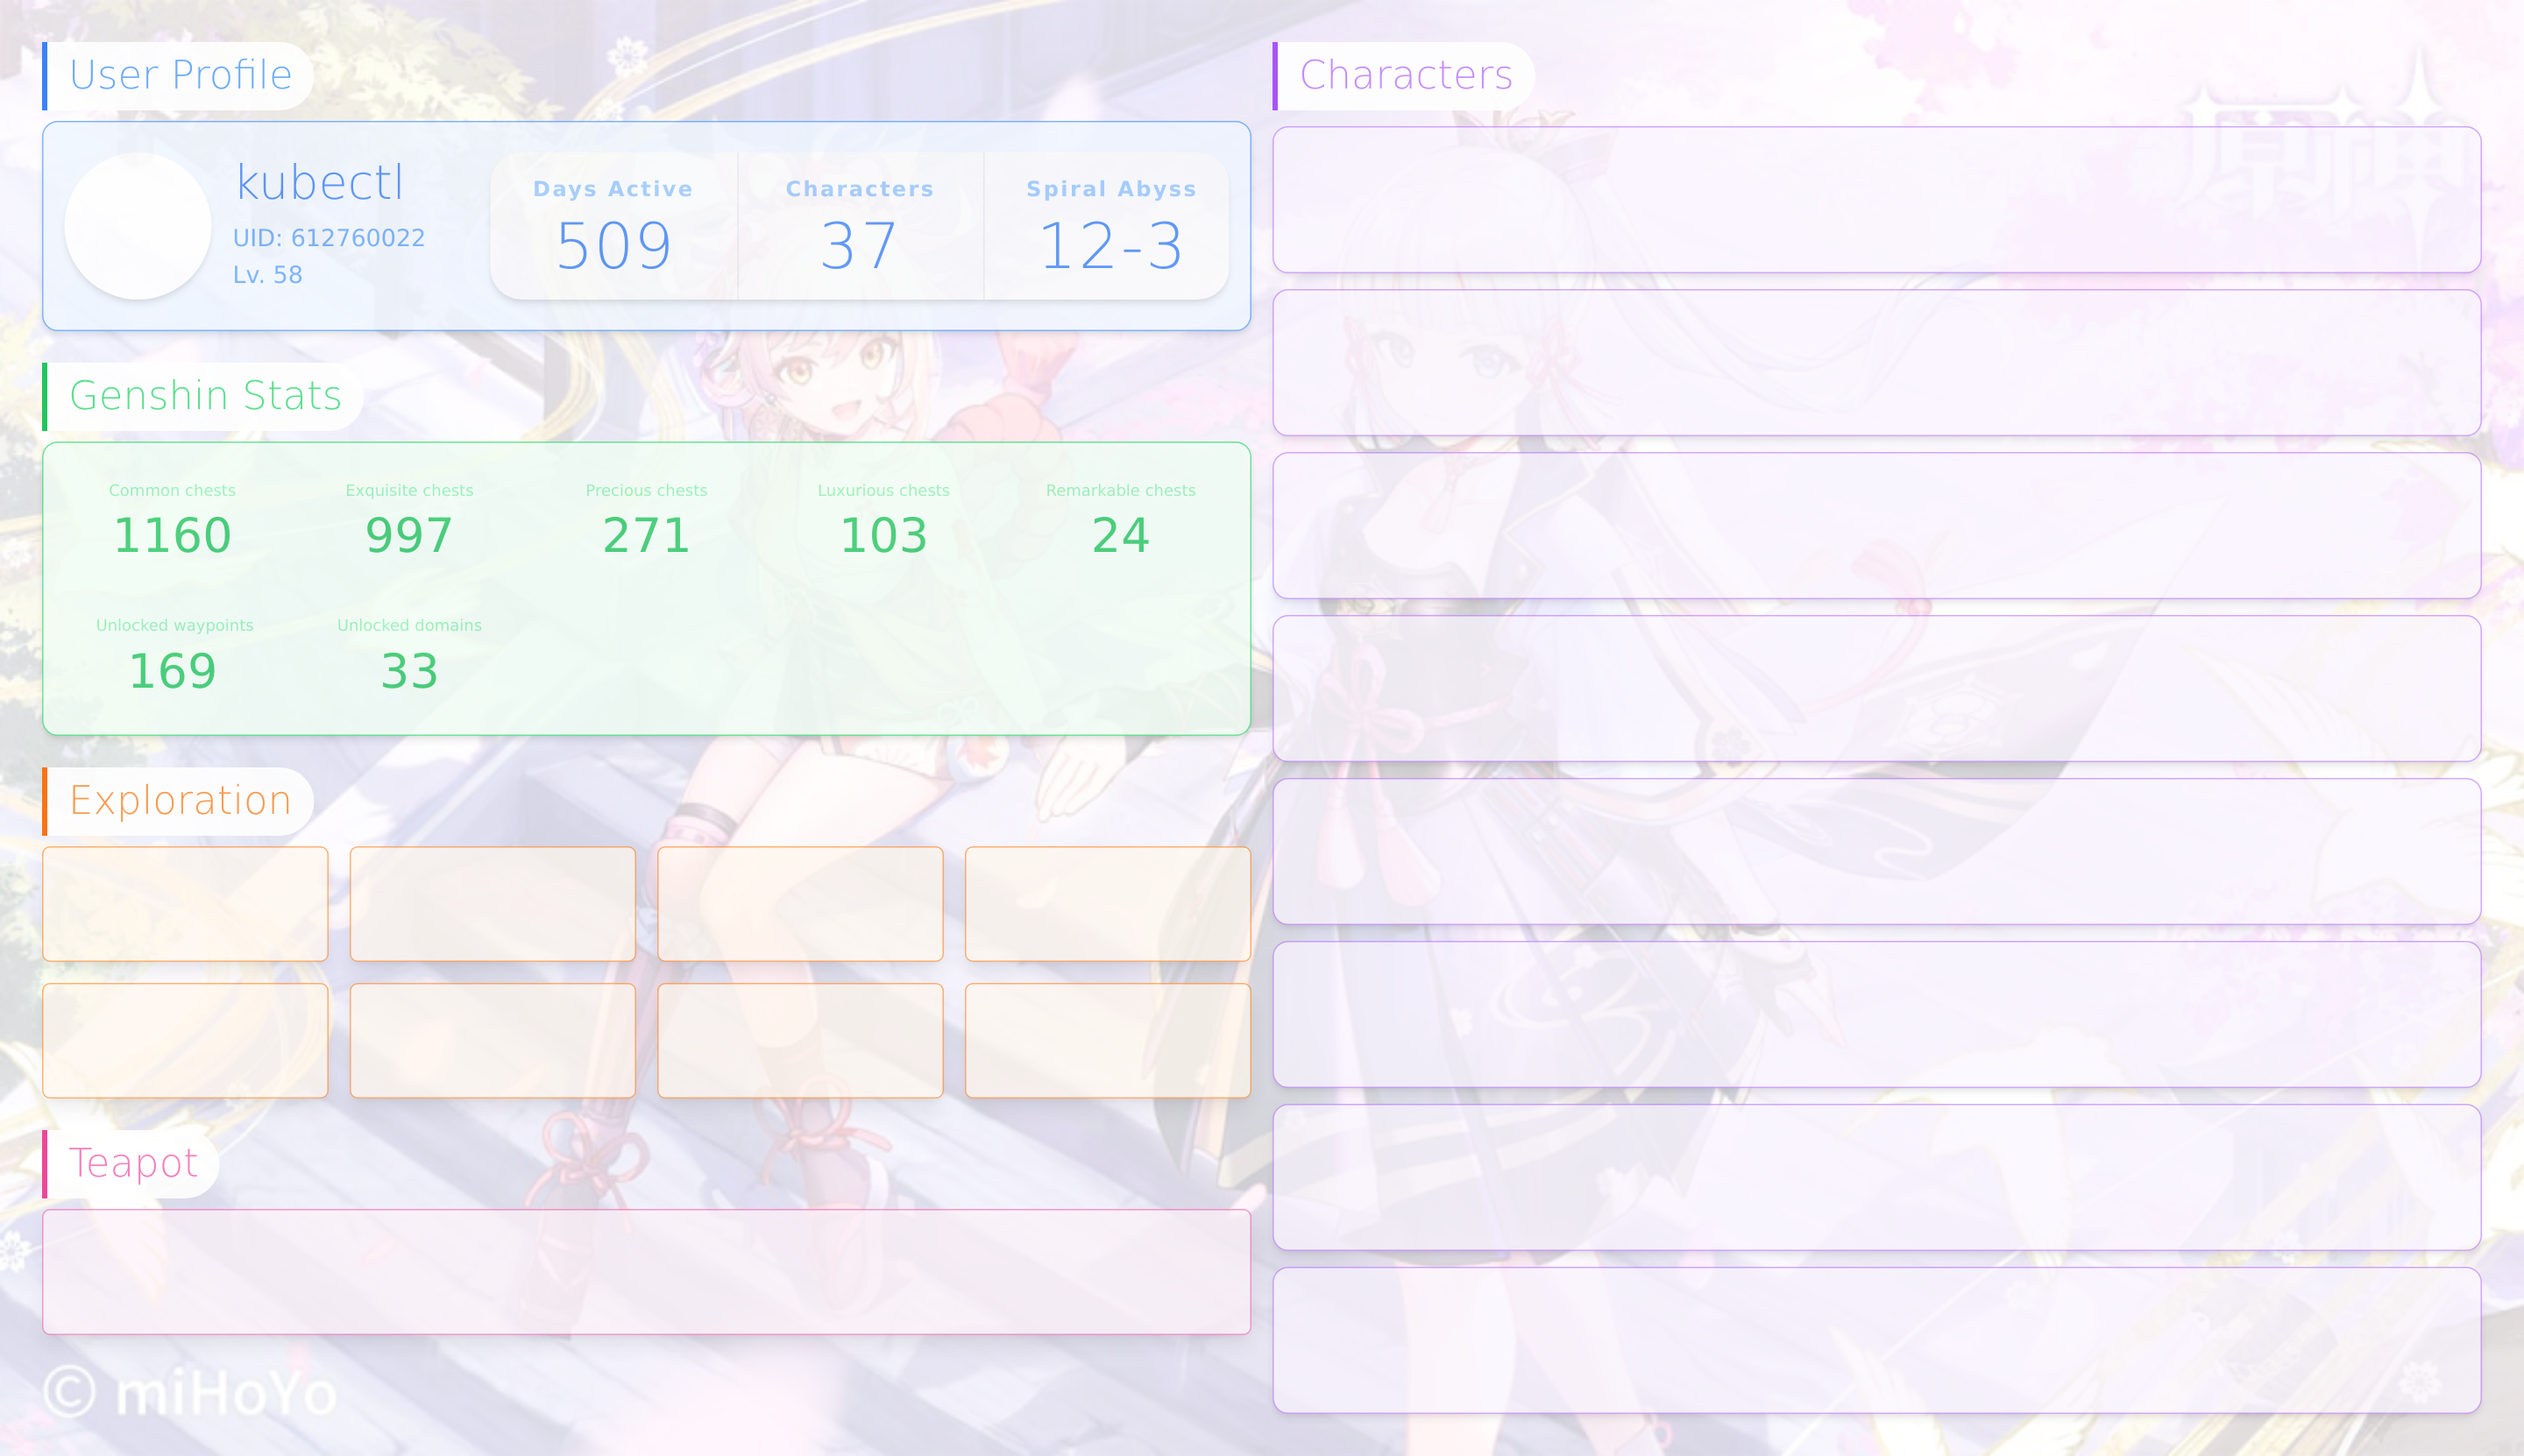
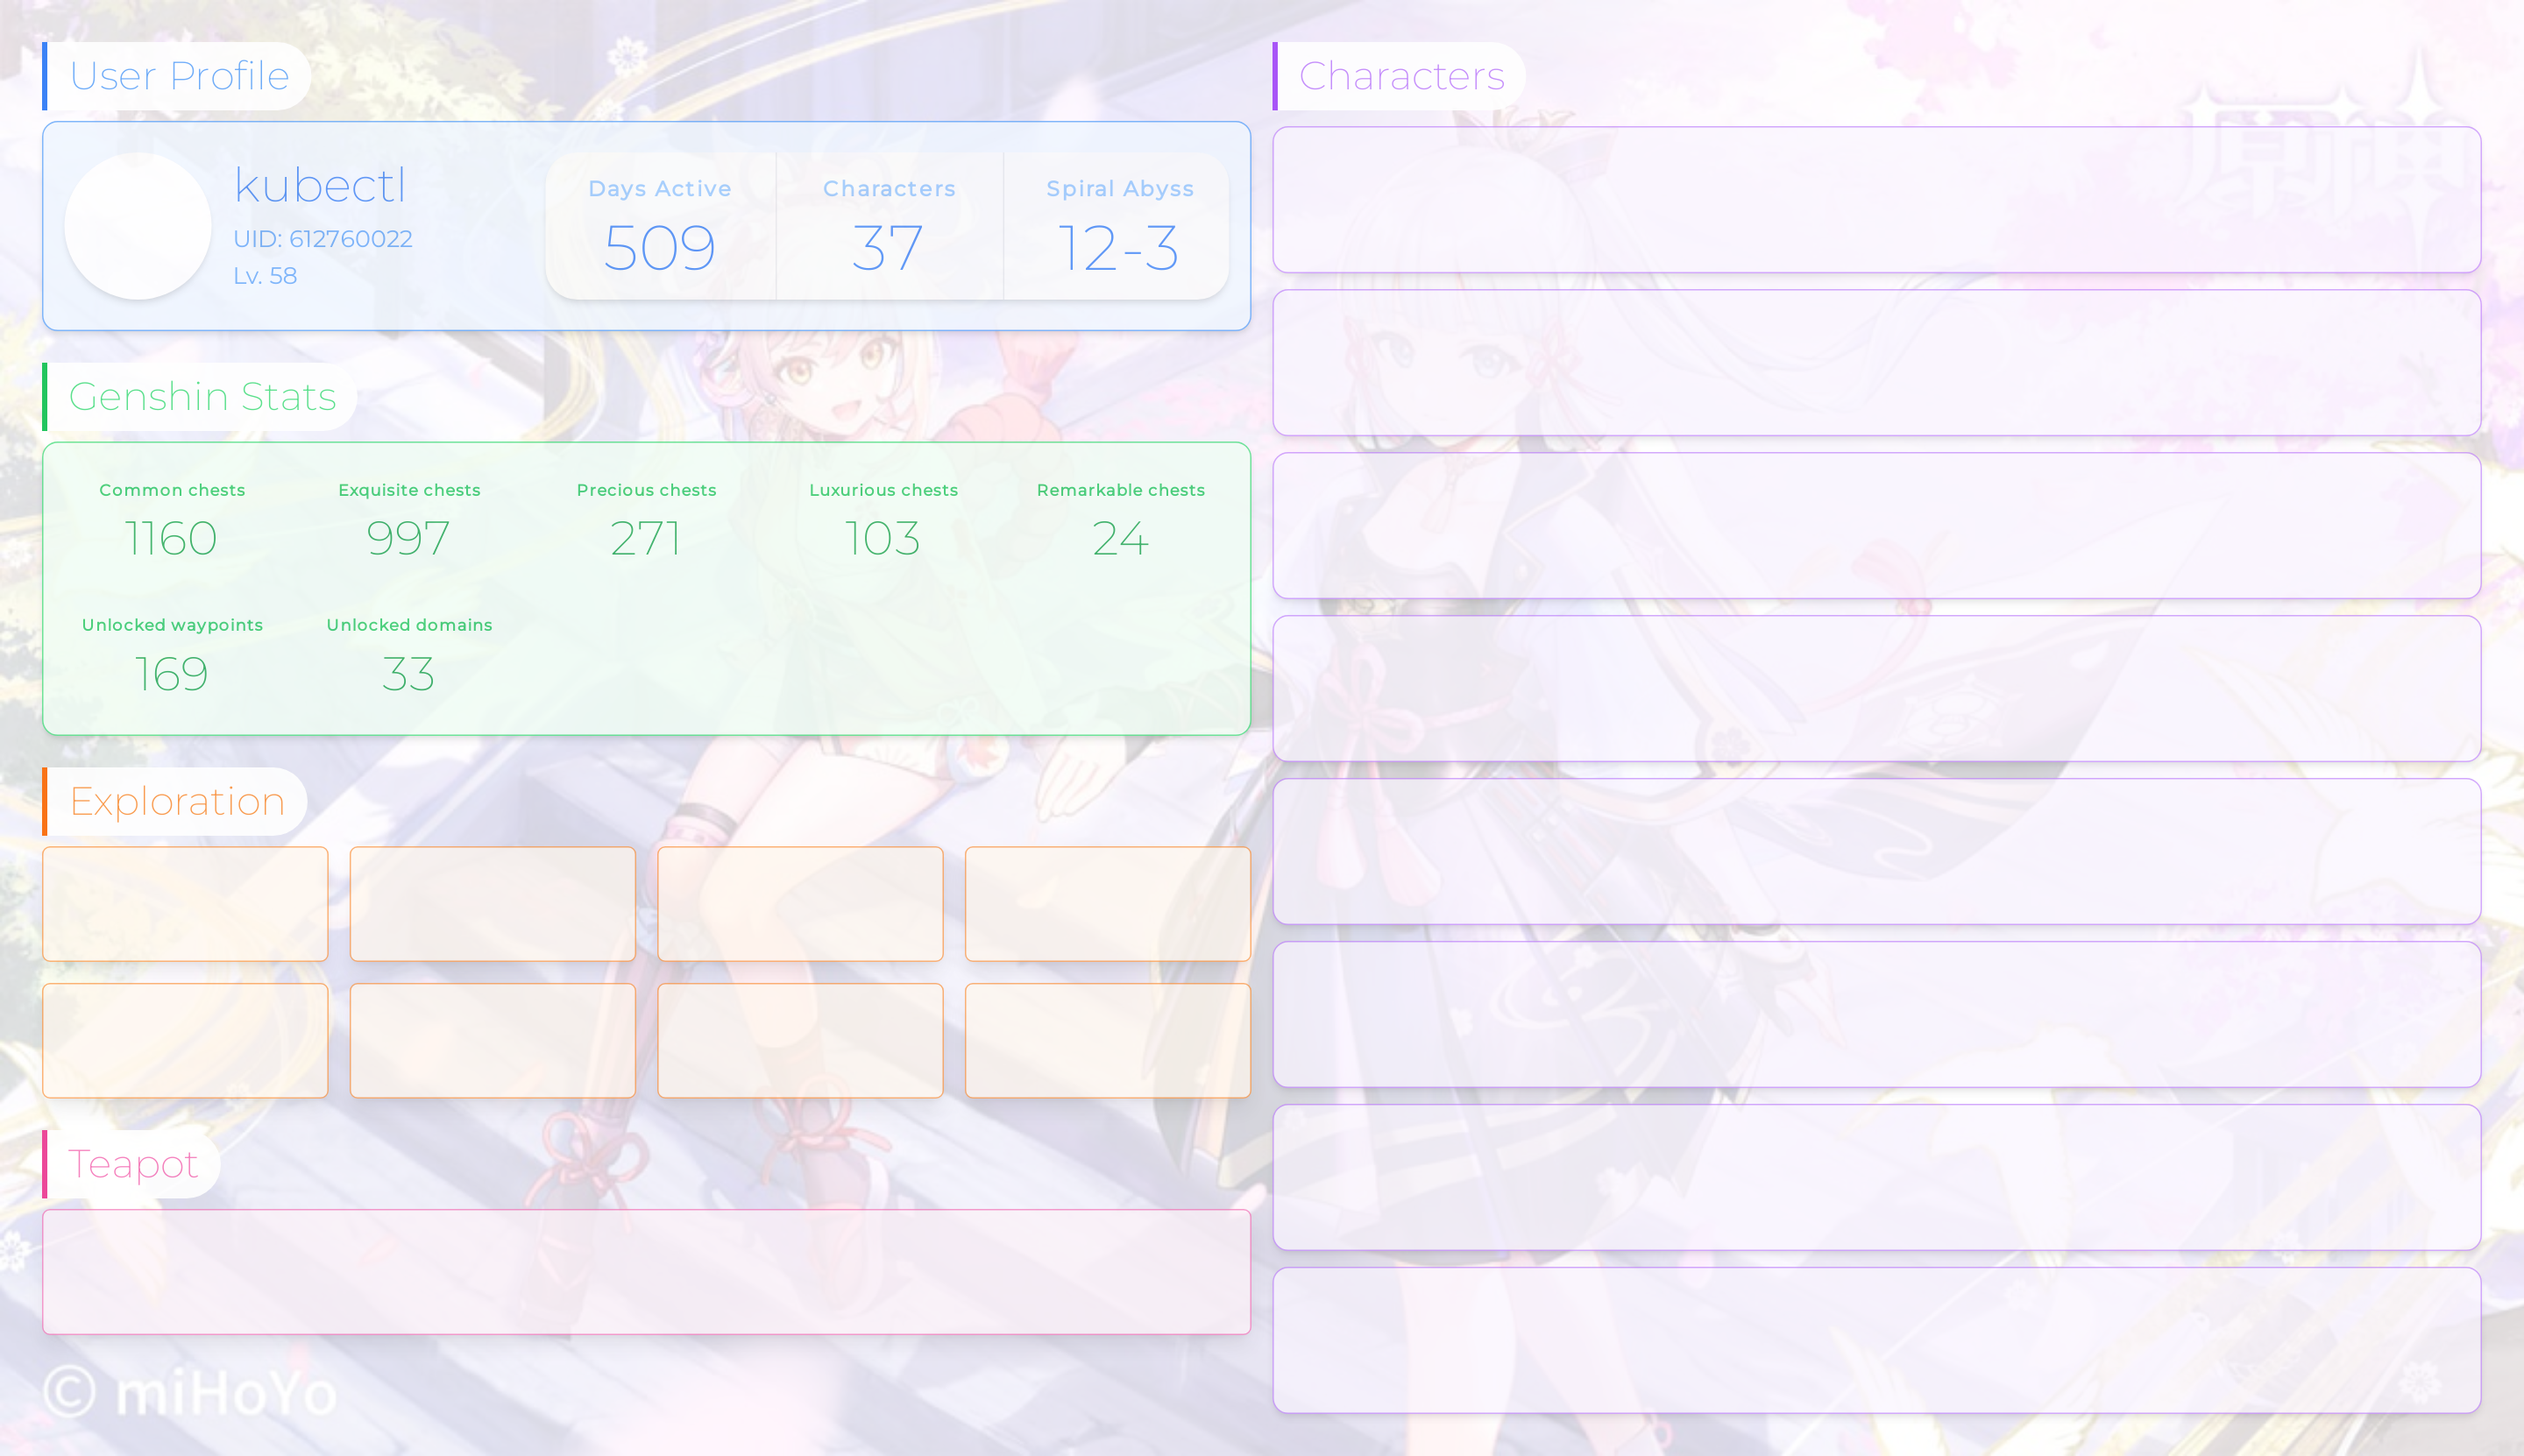
Update stats font

diff --git a/pages/index.tsx b/pages/index.tsx
@@ -98,41 +98,42 @@ const CardPage: NextPage = (props: InferGetServerSidePropsType<typeof getServerS
               </div>
             </div>
             {/* Content */}
-            <div className="h-56 grid grid-cols-5 text-center items-center p-2 w-full rounded-xl shadow-md bg-green-50 border border-green-400 opacity-80">
+            <div className={`h-56 grid grid-cols-5 text-center tracking-wider items-center
+              p-2 w-full rounded-xl shadow-md bg-green-50 border border-green-400 opacity-80`}>
               {/* Common chests 普通宝箱 */}
-              <div className="basis-1/5 flex-none flex flex-col px-8 py-4 gap-2">
-                <span className="text-xs text-green-300 whitespace-nowrap">Common chests</span>
-                <span className="text-4xl text-green-500">{ userInfo.stats.common_chests }</span>
+              <div className="basis-1/5 flex flex-col px-2 py-4 gap-2">
+                <span className="text-xs font-black text-green-500 whitespace-nowrap">Common chests</span>
+                <span className="text-4xl font-thin text-green-600">{ userInfo.stats.common_chests }</span>
               </div>
               {/* Exquisite chests 精致宝箱 */}
-              <div className="basis-1/5 flex flex-col px-8 py-4 gap-2">
-                <span className="text-xs text-green-300 whitespace-nowrap">Exquisite chests</span>
-                <span className="text-4xl text-green-500">{ userInfo.stats.exquisite_chests }</span>
+              <div className="basis-1/5 flex flex-col px-2 py-4 gap-2">
+                <span className="text-xs font-black text-green-500 whitespace-nowrap">Exquisite chests</span>
+                <span className="text-4xl font-thin text-green-600">{ userInfo.stats.exquisite_chests }</span>
               </div>
               {/* Precious chests 珍贵宝箱 */}
-              <div className="basis-1/5 flex flex-col px-8 py-4 gap-2">
-                <span className="text-xs text-green-300 whitespace-nowrap">Precious chests</span>
-                <span className="text-4xl text-green-500">{ userInfo.stats.precious_chests }</span>
+              <div className="basis-1/5 flex flex-col px-2 py-4 gap-2">
+                <span className="text-xs font-black text-green-500 whitespace-nowrap">Precious chests</span>
+                <span className="text-4xl font-thin text-green-600">{ userInfo.stats.precious_chests }</span>
               </div>
               {/* Luxurious chests 华丽宝箱 */}
-              <div className="basis-1/5 flex flex-col px-8 py-4 gap-2">
-                <span className="text-xs text-green-300 whitespace-nowrap">Luxurious chests</span>
-                <span className="text-4xl text-green-500">{ userInfo.stats.luxurious_chests }</span>
+              <div className="basis-1/5 flex flex-col px-2 py-4 gap-2">
+                <span className="text-xs font-black text-green-500 whitespace-nowrap">Luxurious chests</span>
+                <span className="text-4xl font-thin text-green-600">{ userInfo.stats.luxurious_chests }</span>
               </div>
               {/* Remarkable chests 奇馈宝箱 */}
-              <div className="basis-1/5 flex flex-col px-8 py-4 gap-2">
-                <span className="text-xs text-green-300 whitespace-nowrap">Remarkable chests</span>
-                <span className="text-4xl text-green-500">{ userInfo.stats.remarkable_chests }</span>
+              <div className="basis-1/5 flex flex-col px-2 py-4 gap-2">
+                <span className="text-xs font-black text-green-500 whitespace-nowrap">Remarkable chests</span>
+                <span className="text-4xl font-thin text-green-600">{ userInfo.stats.remarkable_chests }</span>
               </div>
               {/* Unlocked waypoints 锚点解锁 */}
-              <div className="basis-1/5 flex flex-col px-8 py-4 gap-2">
-                <span className="text-xs text-green-300 whitespace-nowrap">Unlocked waypoints</span>
-                <span className="text-4xl text-green-500">{ userInfo.stats.unlocked_waypoints }</span>
+              <div className="basis-1/5 flex flex-col px-2 py-4 gap-2">
+                <span className="text-xs font-black text-green-500 whitespace-nowrap">Unlocked waypoints</span>
+                <span className="text-4xl font-thin text-green-600">{ userInfo.stats.unlocked_waypoints }</span>
               </div>
               {/* Unlocked domains 秘境解锁 */}
-              <div className="basis-1/5 flex flex-col px-8 py-4 gap-2">
-                <span className="text-xs text-green-300 whitespace-nowrap">Unlocked domains</span>
-                <span className="text-4xl text-green-500">{ userInfo.stats.unlocked_domains }</span>
+              <div className="basis-1/5 flex flex-col px-2 py-4 gap-2">
+                <span className="text-xs font-black text-green-500 whitespace-nowrap">Unlocked domains</span>
+                <span className="text-4xl font-thin text-green-600">{ userInfo.stats.unlocked_domains }</span>
               </div>
             </div>
           </div>
